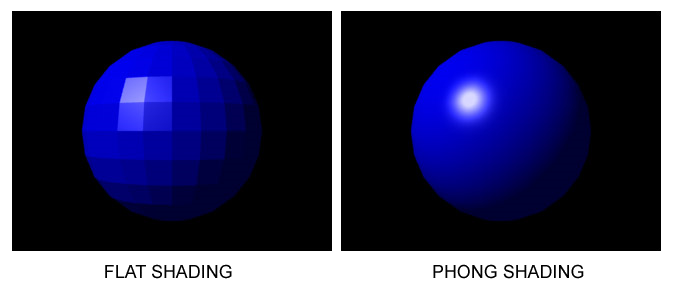
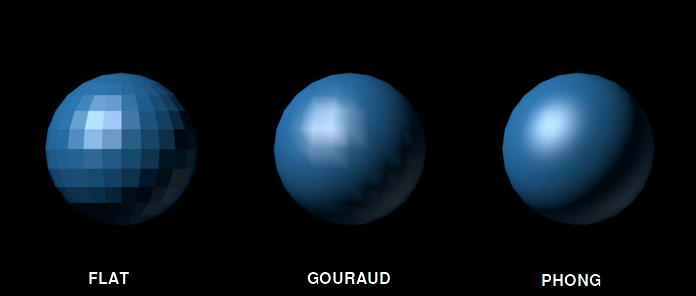
Improves shading

diff --git a/classes/lighting/README.md b/classes/lighting/README.md
@@ -17,9 +17,8 @@
 
 1. Iluminação em Computação Gráfica
 1. Tipos de modelos
-1. Modelos locais
+1. Modelo local de Phong
 1. Iluminação em OpenGL
-1. Modelos globais
 1. Sombreamento
 1. Atenuação
 1. _Fog_ (neblina)
@@ -387,23 +386,25 @@
     ```
     glLightf(GL_LIGHT0, GL_LINEAR_ATTENUATION, 1.0);
     ```
-- Por padrão, não há atenuação. Ou seja:
-  - <span class="math">k_c = 0</span>, <span class="math">k_l = 0</span>,
+- Por padrão, há uma atenuação de:
+  - <span class="math">k_c = 1</span>, <span class="math">k_l = 0</span>,
     <span class="math">k_q = 0</span>  
 
 ---
-## Juntando tudo
+## Cor resultante de um vértice: <span class="math">C</span>
 
-- A atenuação só é aplicada sobre às componentes difusa e especular.
+- A atenuação só é aplicada sobre às componentes difusa
+  <span class="math">D</span> e especular <span class="math">S</span>
+  - Não faz sentido para ambiente <span class="math">A</span>, nem
+    emissiva <span class="math">E</span>
 - A fórmula que calcula a cor de um vértice devida a uma **fonte luminosa
   <span class="math">i</span>** é dada por:
-
   <div class="math">C_i=A_i + aten(D_i + S_i)</div>
 - Portanto, no total, a cor é dada pela contribuição da iluminação ambiente (parcela não associada com fontes de luz)
   somada à luz emitida e às contribuições fonte luminosa
     <span class="math">C_i</span>:
 
-    <div class="math">C=Amb_{global} + E + \sum{A_i + aten(D_i + S_i)}</div>
+    <div class="math">C=A_{global} + E + \sum{A_i + aten(D_i + S_i)}</div>
 
 ---
 # Recapitulando iluminação
@@ -470,11 +471,10 @@
 
 ![](../../images/shading-flat-exemplo.png)
 
-- Usa (apenas) **01 vetor normal para cada polígono**
-  - Portanto, cada polígono tem apenas uma cor
+- **Uma única cor por primitiva** - é a cor do primeiro vértice
+- Precisa de (apenas) **01 vetor normal para cada polígono**
 - Extremamente rápido, mas produz imagens facetadas, pois a transição de um
   polígono para outro adjacente é nítida
-- Útil para objetos "facetados" como, por exemplo, um tabuleiro de xadrez
 
 ---
 <!--
@@ -488,7 +488,9 @@
 
 <figure class="picture-steps">
   <img class="bullet" src="../../images/lowpoly-octopus.jpg">
+  <img class="bullet" src="../../images/lowpoly-fox.jpg">
   <img class="bullet" src="../../images/lowpoly-scene.jpg">
+  <img class="bullet" src="../../images/lowpoly-trees-and-stones.jpg">
 </figure>
 
 ---
@@ -528,7 +530,7 @@
 ---
 ## _Phong shading_ (cont.)
 
-- Interpola as normais em vez das cores
+- <u>Interpola as normais</u> dos vértices para os pixels, em vez das cores
   - A função de iluminação deve ser avaliada **para cada pixel**
 - Significativamente mais caro
 - Não oferecido pelo OpenGL no _pipeline_ gráfico fixo
@@ -537,16 +539,16 @@
 ---
 ## Consertando o problema dos _highlights_ de Gouraud
 
-- Em _Gouraud_, temos uma amostragem de vértices muito menor
+<p style="text-align: right">
+  ![right](../../images/highlight-gouraud.png)
+  Em **_Gouraud_**, temos uma amostragem de vértices muito menor &rarr;
+</p>
 
-  ![](../../images/highlight-gouraud.png)
+<p style="clear: right;">
+  ![left](../../images/highlight-phong.png)
+  &larr; Em **_Phong_**, a amostragem é bem maior
+</p>
 
----
-## Consertando o problema dos _highlights_ de Gouraud
-
-- Em _Phong_, a amostragem é bem maior
-
-  ![](../../images/highlight-phong.png)
 
 ---
 ## Comparação dos três modelos de **sombreamento**
@@ -578,6 +580,21 @@
 </figure>
 
 ---
+## _Fog_ no Zelda 64
+
+<iframe src="https://www.youtube.com/embed/_9AcRhzV3qA?ecver=2" width="480" height="360" frameborder="0" allowfullscreen></iframe>
+
+---
+## _Fog_ no Turok 64
+
+<iframe src="https://www.youtube.com/embed/cOVpcC8GwXM?ecver=2" width="480" height="360" frameborder="0" allowfullscreen></iframe>
+
+---
+## _Fog_ com cor do _skybox_ no Temple Run 2
+
+<iframe src="https://www.youtube.com/embed/wTTrtp-yy4I?ecver=2" width="480" height="360" frameborder="0" allowfullscreen></iframe>
+
+---
 ## _Fog_ (cont.)
 
 ```c
@@ -593,6 +610,7 @@
   glEnable(GL_FOG);                   // Liga GL_FOG
 ```
 - [Referência do `glFog`](https://www.opengl.org/sdk/docs/man2/xhtml/glFog.xml)
+- Cor da neblina = cor do `glClearColor`
 
 ---
 # Referências
